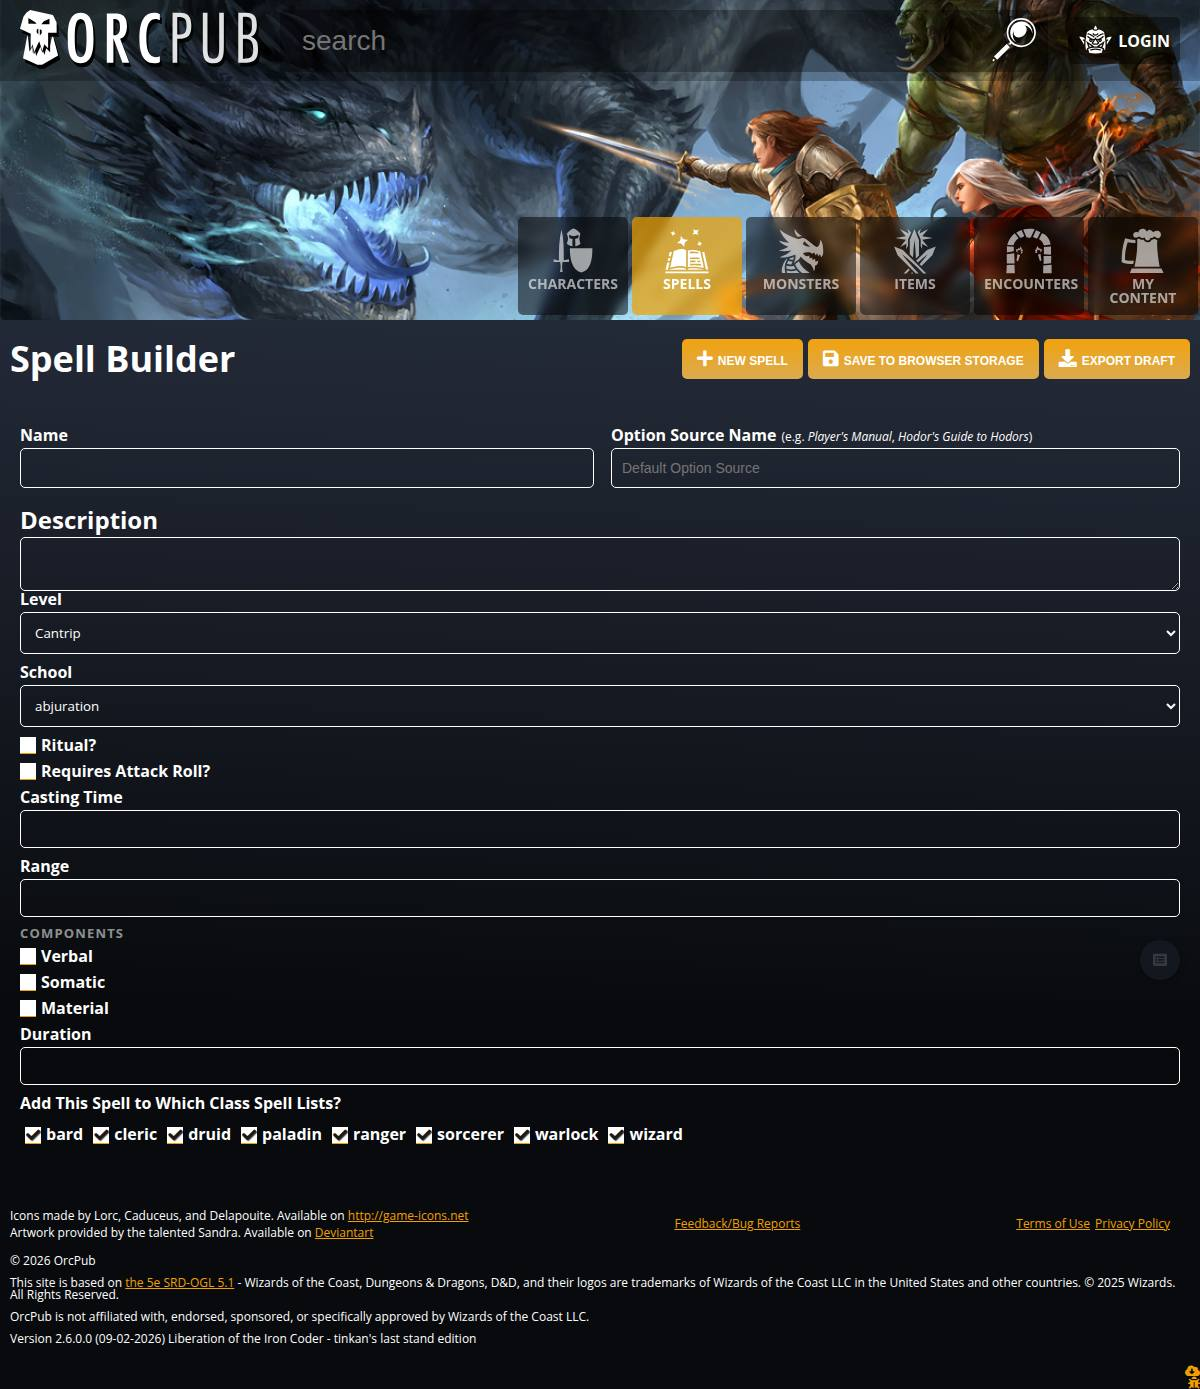
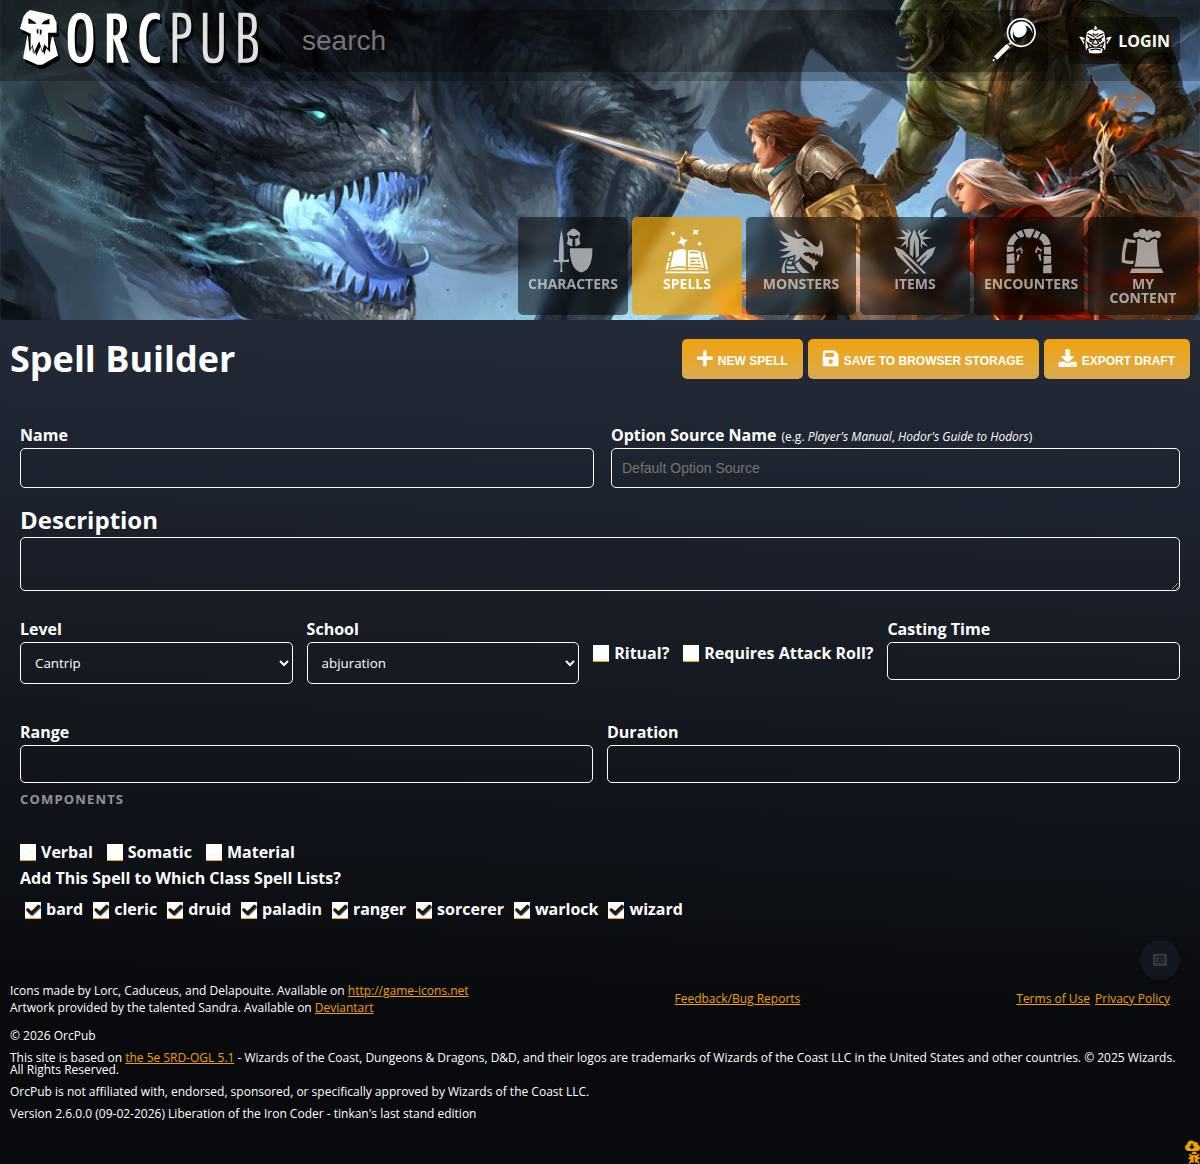
Declarative fields flow by type — the conversions were losing page cohesion
The spell conversion I signed off shipped a form that was WORSE than the one it
replaced, and the gallery called it an improvement because the gallery only
counted controls.

  hand-built   1289px, 10 controls
  converted    1389px,  9 controls     <- taller, showing less
  now          1164px,  9 controls

The hand-written page paired Level+School on one row and Casting Time+Range on
another and ran the checkboxes inline. The declarative renderer made every
field a page-wide block in a single column. That is the same defect fixed
INSIDE the effect rows one pair earlier — number-wide numbers, inline tags —
and I never applied it at the top level. Brevity in the source is not the goal;
a declarative form has to carry the layout the hand-written one had, or the
conversion is a downgrade wearing a smaller diff.

Fields now flow, sized by type, in .field-flow:

  :boolean                       as wide as its label, inline
  :number                        120px
  :enum                          1 1 240px
  :text                          1 1 260px
  :multi-enum / :rows / :full    the whole line

Direct-child selectors only, so fields inside an effect row keep their own
tighter sizing.

:section was also lying. It grouped only the field that declared it, so Verbal
sat alone under COMPONENTS while Somatic and Material leaked out below the
heading. A section now covers the fields that FOLLOW it until the next starts,
[…]

diff --git a/test/e2e/builder-gallery.js b/test/e2e/builder-gallery.js
@@ -52,10 +52,15 @@ const ONLY = (process.env.ONLY || '').split(',').filter(Boolean);
     const controls = await page.evaluate(() =>
       [...document.querySelectorAll('#app input, #app select, #app textarea')]
         .filter(e => { const r = e.getBoundingClientRect(); return r.width > 0 && r.height > 0; }).length);
+    // HEIGHT, not just control count. A conversion that stacks every field into one page-wide
+    // column shows the same controls and reads far worse — the generated spell form ran 100px
+    // TALLER than the hand-written one while showing one control FEWER, and a count-only gallery
+    // reported that as an improvement. Height is what catches lost cohesion.
+    const height = await page.evaluate(() => document.querySelector('#app').scrollHeight);
     await shot(page, path.join(dir, `${seg}.jpg`));
     const broke = errors.length > before;
-    rows.push({ seg, controls, broke });
-    console.log(`${broke ? 'ERR ' : '    '}${seg.padEnd(28)} ${String(controls).padStart(3)} controls`);
+    rows.push({ seg, controls, height, broke });
+    console.log(`${broke ? 'ERR ' : '    '}${seg.padEnd(28)} ${String(controls).padStart(3)} controls  ${String(height).padStart(5)}px`);
   }
   await browser.close();
 

diff --git a/docs/kb/builder-conversion-gallery.md b/docs/kb/builder-conversion-gallery.md
@@ -306,13 +306,47 @@ is hand-written and did a plain `assoc`, while every declarative field sends a *
 screen was wrong; only reading back what was saved showed it. That is the whole argument for
 pinning on stored shape rather than on what you typed.
 
-### One improvement and one regression, both deliberate
+### The regression this conversion shipped first, and the fix
 
-- The **Material Component** box is now `:when` the Material component is ticked, so it is hidden
-  until it means something — 10 visible controls became 9.
-- **Description moved up**, because `simple-content-builder` renders it after name and source. The
-  bespoke form had it near the bottom. The Components heading was lost in the first pass and
-  restored with the new `:section` vocabulary.
+The first version of this conversion **was worse than the form it replaced**, and the gallery said
+it was fine because the gallery only counted controls.
+
+| | hand-built | first conversion | now |
+|---|---:|---:|---:|
+| page height | 1289px | **1389px** | **1164px** |
+| visible controls | 10 | 9 | 9 |
+
+*Taller, with fewer controls.* The hand-written page paired **Level + School** on one row and
+**Casting Time + Range** on another, and ran the checkboxes inline; the declarative renderer made
+every field a page-wide block in a single column. That is the same defect fixed *inside* the effect
+rows one pair earlier — number-wide numbers, inline tags — and it was never applied at the top
+level. **Brevity in the source is not the goal; a declarative form has to carry the layout the
+hand-written one had, or the conversion is a downgrade wearing a smaller diff.**
+
+So fields now **flow, sized by their type**, in `.field-flow`:
+
+| type | width |
+|---|---|
+| `:boolean` | as wide as its label, inline with its neighbours |
+| `:number` | 120px |
+| `:enum` | `1 1 240px` |
+| `:text` | `1 1 260px` |
+| `:multi-enum`, `:rows`, `:span :full` | the whole line |
+
+Direct-child selectors only, so fields inside an effect row keep their own tighter sizing.
+
+**And `:section` was lying.** It grouped only the field that declared it, so *Verbal* sat alone
+under COMPONENTS while Somatic and Material leaked out below the heading. A section now covers the
+fields that follow it until the next one starts — which in turn required moving `:duration` ahead
+of the components in the schema, since it had been declared after them and would otherwise have
+been swept into Components.
+
+**The gallery now records page height, not just control count** (`builder-gallery.js`), because
+height is what catches lost cohesion and the count alone reported the regression as an improvement.
+
+Two other deliberate differences from the bespoke form: the **Material Component** box is `:when`
+the Material box is ticked, so it is hidden until it means anything; and **Description moved up**,
+because `simple-content-builder` renders it after name and source.
 
 ---
 
